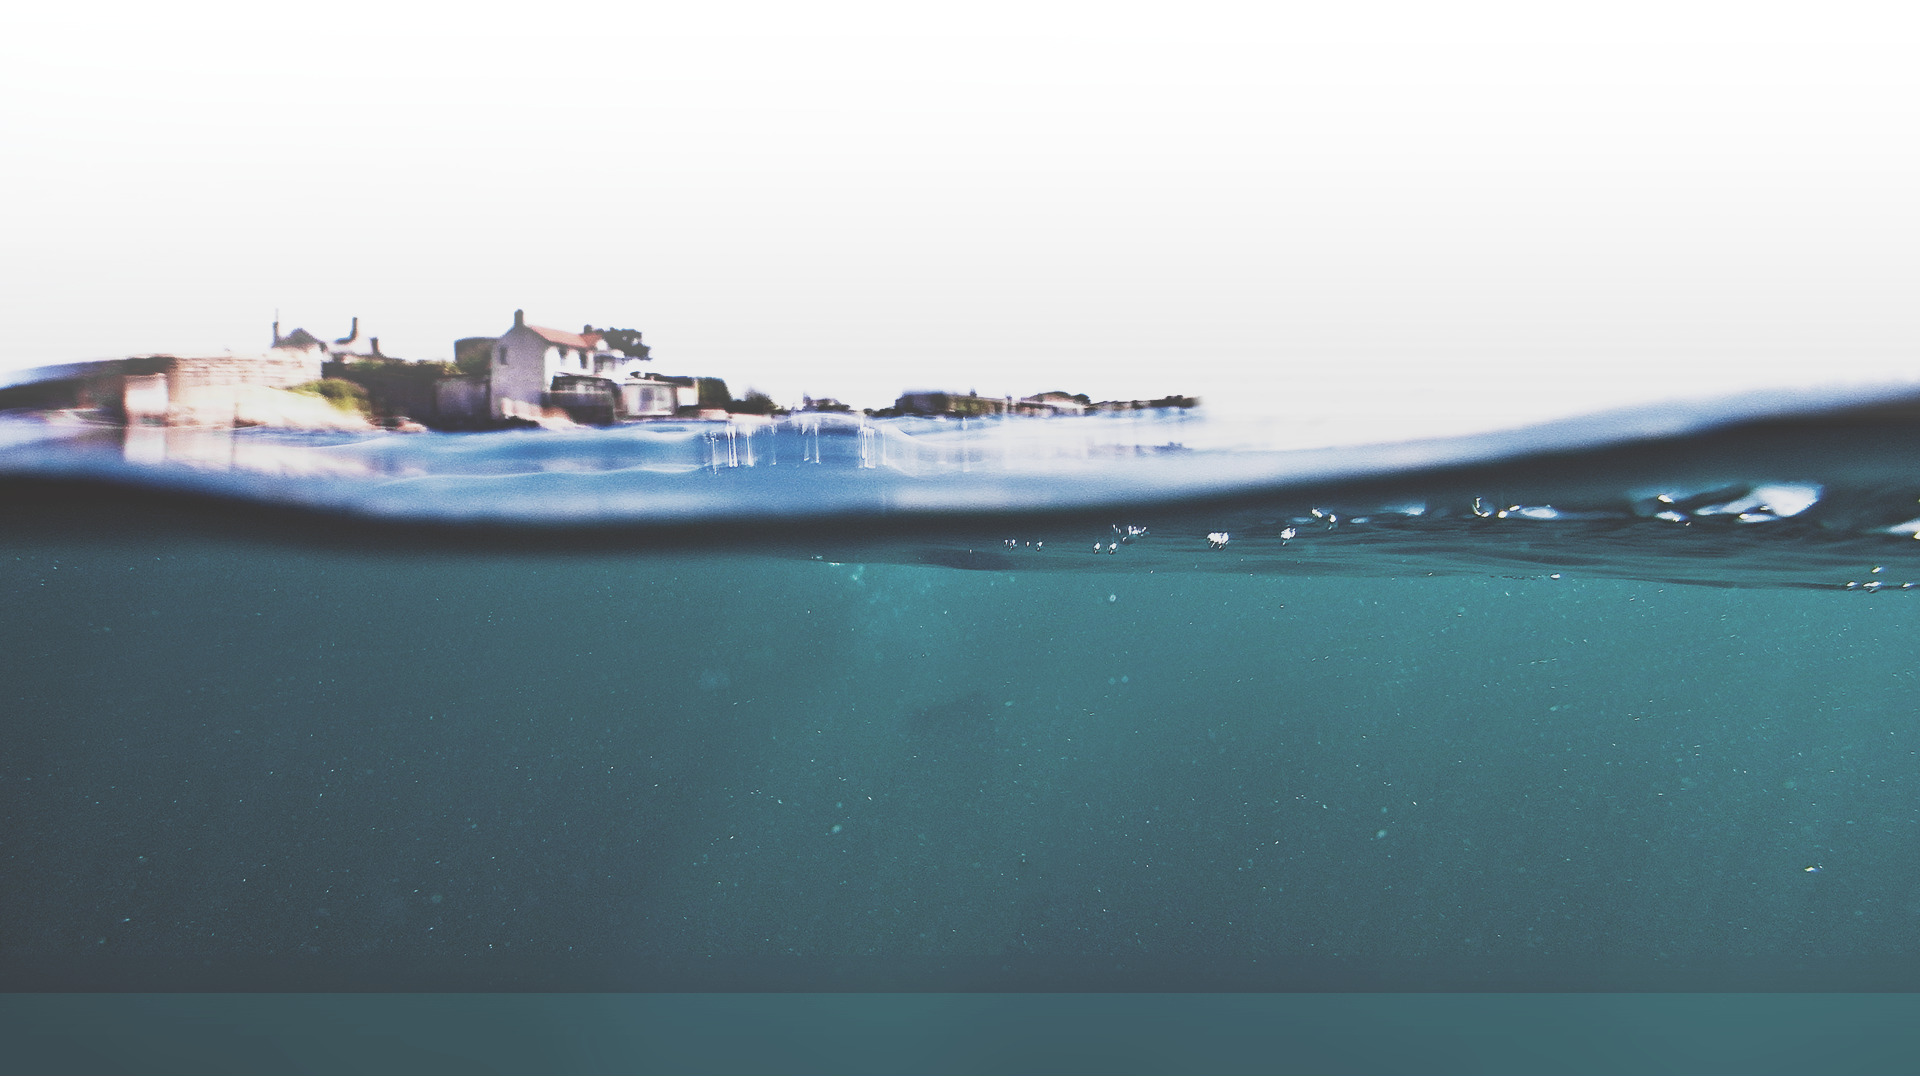
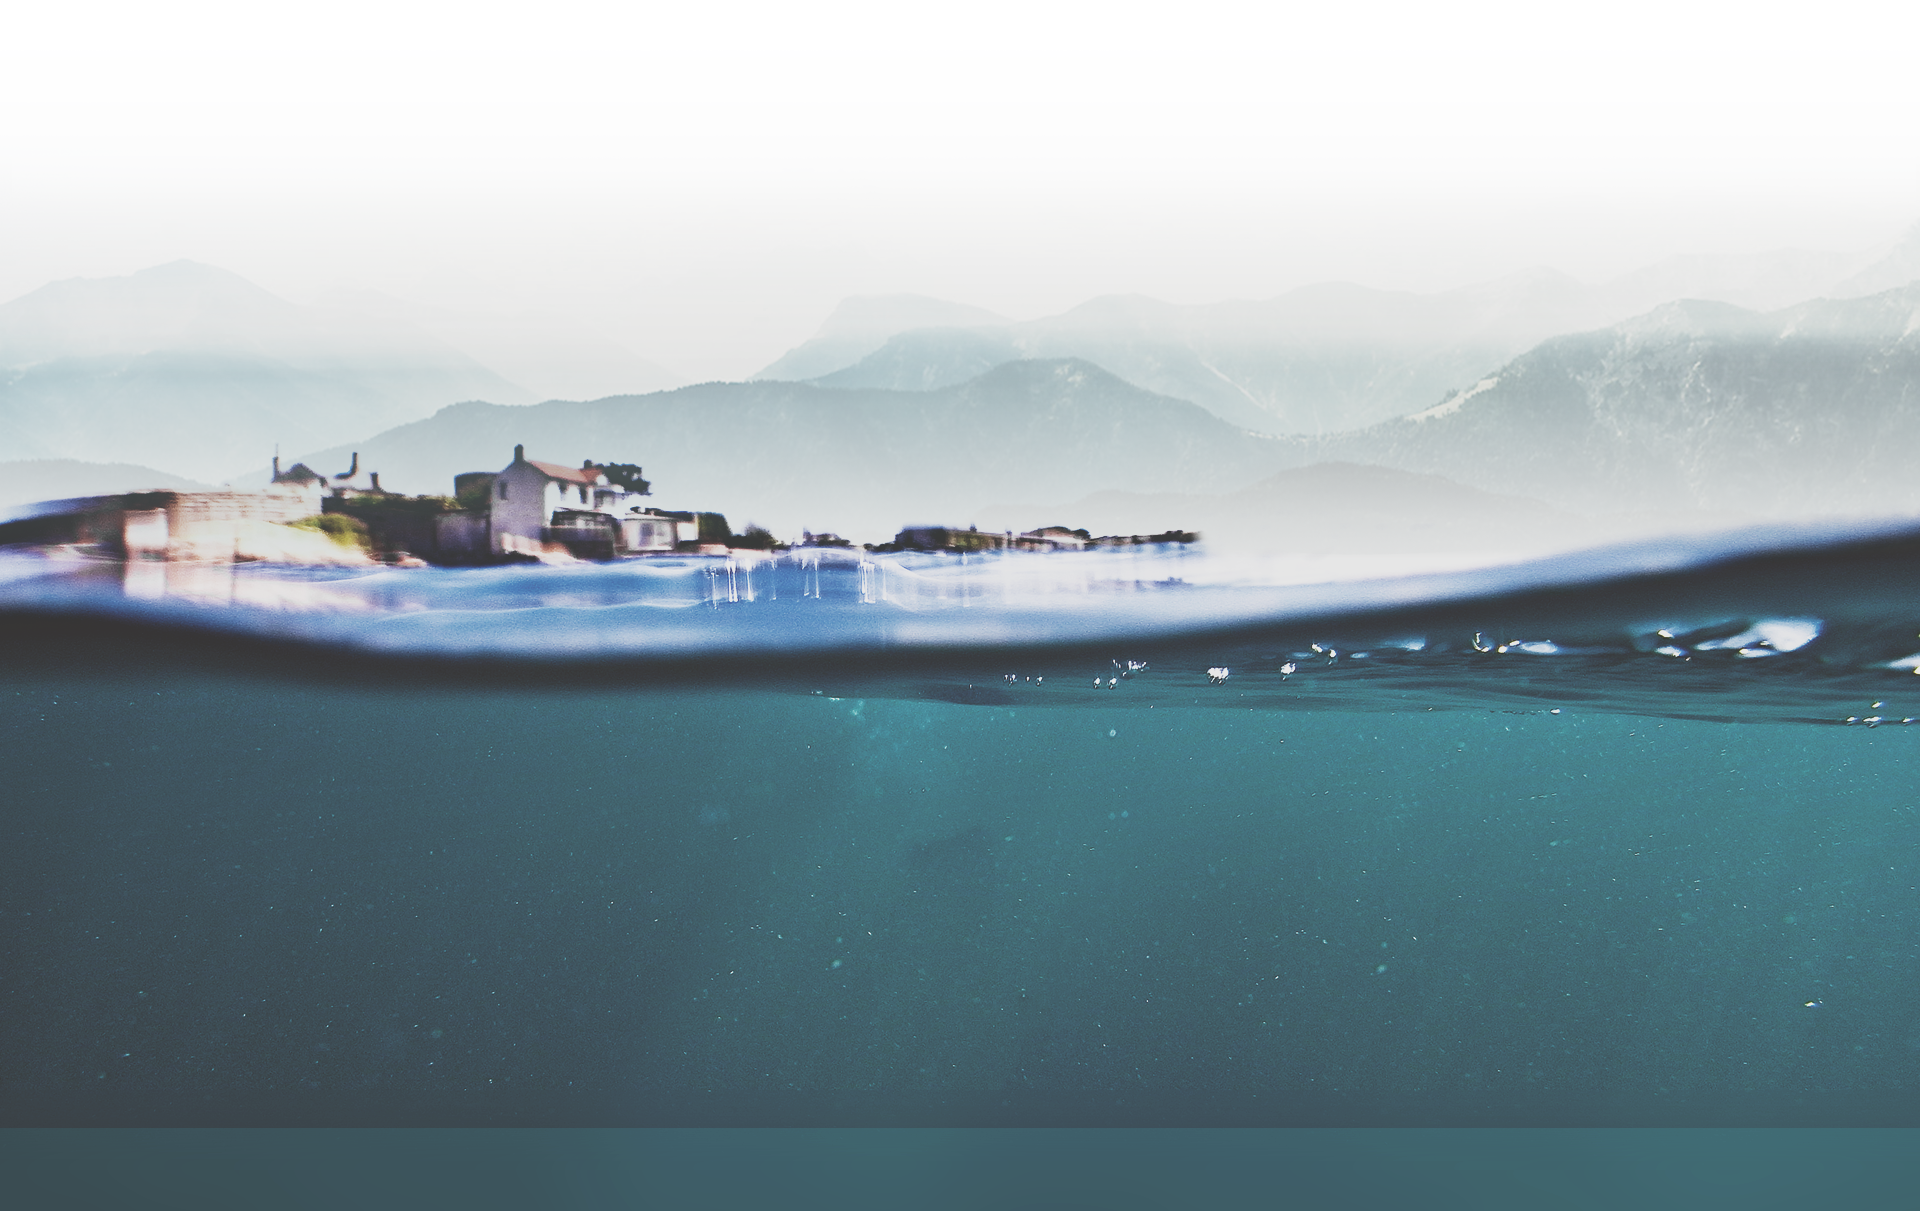
add styles for clients, form, recalls and footer

Changed region(s): [[0.0, 0.2147, 1.0, 0.6134]]

diff --git a/index.html b/index.html
@@ -392,18 +392,18 @@
             </div>
           </div>
         </div>
-        <article class="recalls__maker">
-          <h3 class="recalls__maker-title">
+        <article class="recalls-maker">
+          <h3 class="recalls-maker__title">
             contacts
           </h3>
-          <p class="recalls__maker-description">
-            sign up for our newsletter to receive updates
+          <p class="recalls-maker__description">
+            Sign up for our newsletter to receive updates
           </p>
-          <form action="https://echo.htmlacademy.ru/" method="post" class="recalls__maker-form">
-            <input type="text" class="recalls__maker-field" placeholder="name">
-            <input type="tel" class="recalls__maker-field" placeholder="phone">
-            <input type="email" class="recalls__maker-field" placeholder="email">
-            <button type="button" class="recalls__maker-submit action-link">
+          <form action="https://echo.htmlacademy.ru/" method="post" class="recalls-maker__form">
+            <input type="text" class="recalls-maker__field" placeholder="name">
+            <input type="tel" class="recalls-maker__field" placeholder="phone">
+            <input type="email" class="recalls-maker__field" placeholder="email">
+            <button type="button" class="recalls-maker__submit action-link">
               send
             </button>
           </form>
@@ -412,17 +412,19 @@
     </section>
   </main>
   <footer class="footer">
-    <span class="footer__copyright">
-      all rights reserved 2015
+    <div class="container container--footer-container">
+      <span class="footer__copyright">
+      All rights reserved 2015
     </span>
-    <div class="footer__social social">
-      <a href="#" class="social__link social__link--twitter"></a>
-      <a href="#" class="social__link social__link--facebook"></a>
-      <a href="#" class="social__link social__link--vk"></a>
+      <div class="footer__social social">
+        <a href="#" class="social__link social__link--twitter"></a>
+        <a href="#" class="social__link social__link--facebook"></a>
+        <a href="#" class="social__link social__link--vk"></a>
+      </div>
+      <a href="tel:12345678" class="footer__tel">
+        1 234 243 123
+      </a>
     </div>
-    <a href="tel:12345678" class="footer__tel">
-      1 234 243 123
-    </a>
   </footer>
   <script src="https://code.jquery.com/jquery-3.2.1.min.js"></script>
   <script src="js/bootstrap.min.js"></script>

diff --git a/sass/blocks/recalls.scss b/sass/blocks/recalls.scss
@@ -1,0 +1,56 @@
+.recalls{
+  box-sizing: border-box;
+  padding-bottom: 160px;
+  background-image: url("../img/clients_bg.png");
+  background-size: cover;
+  background-repeat: no-repeat;
+  background-position: center 120px;
+  &__list{
+    display: flex;
+    justify-content: space-between;
+    margin-bottom: 100px;
+  }
+  &__item{
+    flex: 1;
+    display: flex;
+    flex-direction: column;
+    padding-right: 40px;
+    &-text{
+      font-size: $fsz18;
+      color: $gray-recalls-font-color;
+      font-weight: normal;
+      font-style: normal;
+      line-height: $lh33;
+    }
+    &-user{
+      font-size: $fsz16;
+      display: flex;
+      justify-content: flex-start;
+      align-items: center;
+      &-photo{
+        width: 70px;
+        height: 70px;
+        border-radius: 50%;
+        background-position: center;
+        background-repeat: no-repeat;
+        background-size: cover;
+      }
+      &-job{
+        margin-left: 8px;
+        font-weight: 300;
+        color: $light-blue;
+      }
+    }
+  }
+}
+.recalls__item-username{
+  margin-left: 8px;
+  font-weight: bold;
+  color: $light-blue;
+}
+.recalls__item:nth-child(1) .recalls__item-user-photo{
+  background-image: url("../img/user1-photo.png");
+}
+.recalls__item:nth-child(2) .recalls__item-user-photo{
+  background-image: url("../img/user2-photo.png");
+}

diff --git a/sass/blocks/clients.scss b/sass/blocks/clients.scss
@@ -1,0 +1,46 @@
+.clients{
+  background-color: $gray-section-bg;
+  &__list{
+    display: flex;
+    justify-content: space-between;
+    list-style: none;
+    padding: 0;
+  }
+  &__item{
+    flex: 1;
+    box-sizing: border-box;
+    :hover{
+      background-color: $dark-grey-section;
+    }
+  }
+}
+.clients__item a{
+  display: block;
+  padding: 80px 0;
+  background-position: center center;
+  background-repeat: no-repeat;
+}
+.clients__item:nth-child(1) a{
+  background-image: url("../img/icon-slack.png");
+  background-size: 80px auto;
+}
+.clients__item:nth-child(2) a{
+  background-image: url("../img/icon-adobe.png");
+  background-size: 40px auto;
+}
+.clients__item:nth-child(3) a{
+  background-image: url("../img/icon-google.png");
+  background-size: 80px auto;
+}
+.clients__item:nth-child(4) a{
+  background-image: url("../img/icon-facebook.png");
+  background-size: 80px auto;
+}
+.clients__item:nth-child(5) a{
+  background-image: url("../img/icon-spotify.png");
+  background-size: 80px auto;
+}
+.clients__item:nth-child(6) a{
+  background-image: url("../img/icon-unknown.png");
+  background-size: 80px auto;
+}

diff --git a/sass/blocks/recalls-maker.scss b/sass/blocks/recalls-maker.scss
@@ -1,0 +1,43 @@
+.recalls-maker{
+  display: flex;
+  flex-direction: column;
+  box-sizing: border-box;
+  width: 515px;
+  margin: 0 auto;
+  padding: 20px 30px;
+  border-radius: 10px;
+  background-image: linear-gradient(to bottom, #C2C6CB 0%, #386d7c 100%);
+  &__title{
+    font-size: $fsz36;
+    font-weight: bold;
+    text-transform: uppercase;
+    color: $light-blue;
+    text-align: center;
+  }
+  &__description{
+    margin: 0;
+    margin-bottom: 25px;
+    text-align: center;
+    font-size: $fsz16;
+    line-height: $lh29;
+  }
+  &__form{
+    margin: 0 auto;
+  }
+  &__field{
+    width: 100%;
+    padding: 15px;
+    box-sizing: border-box;
+    font-size: $fsz18;
+    border-radius: 5px;
+    margin-bottom: 20px;
+  }
+  &__submit{
+    width: 100%;
+    padding: 15px;
+    box-sizing: border-box;
+    font-size: $fsz18;
+    border-radius: 5px;
+    margin-bottom: 20px;
+  }
+}

diff --git a/sass/variables.scss b/sass/variables.scss
@@ -3,8 +3,11 @@ $light-blue: #36aeea;
 $action-link-color: #3ab0e7;
 $page-title-bottom-color: #56c7ff;
 $gray-section-bg: #f6f4f4;
+$dark-grey-section: #6b6867;
+$footer-color: #3e5d66;
 $nav-link-color: #9daeb6;
 $section-title-color: #2c2e37;
+$gray-recalls-font-color: #bcbcbc;
 $gray-section-content-color: #949494;
 $journal-item-short-msg-color: #0083b3;
 $journal-item-title-color: #202020;
@@ -22,6 +25,7 @@ $fsz18: 18px;
 $fsz20: 20px;
 $fsz29: 29px;
 $fsz30: 30px;
+$fsz36: 36px;
 $fsz50: 50px;
 $fsz66: 66px;
 
@@ -30,7 +34,9 @@ $lh18: 18px;
 $lh24: 24px;
 $lh26: 26px;
 $lh29: 29px;
+$lh33: 33px;
 $lh34: 34px;
+$lh36: 36px;
 $lh40: 40px;
 $lh43: 43px;
 $lh44: 44px;

diff --git a/sass/style.scss b/sass/style.scss
@@ -8,6 +8,7 @@
 @import "blocks/body.scss";
 @import "blocks/about-us.scss";
 @import "blocks/action-link.scss";
+@import "blocks/clients.scss";
 @import "blocks/container.scss";
 @import "blocks/footer.scss";
 @import "blocks/gallery.scss";
@@ -18,6 +19,8 @@
 @import "blocks/nav.scss";
 @import "blocks/page-title.scss";
 @import "blocks/proposal.scss";
+@import "blocks/recalls.scss";
+@import "blocks/recalls-maker.scss";
 @import "blocks/section-title.scss";
 @import "blocks/send-contacts.scss";
 @import "blocks/works.scss";

diff --git a/sass/blocks/container.scss b/sass/blocks/container.scss
@@ -17,6 +17,10 @@
   &--send-contacts{
     padding: 150px 0 350px;
   }
+  &--footer-container{
+    display: flex;
+    justify-content: space-between;
+  }
 }
 
 @media (max-width: $toast-breakpoint-medium) {

diff --git a/sass/blocks/footer.scss b/sass/blocks/footer.scss
@@ -1,5 +1,6 @@
 .footer{
-
+  padding: 20px;
+  background-color: $footer-color;
 }
 @media (max-width: $toast-breakpoint-medium) {
 }
